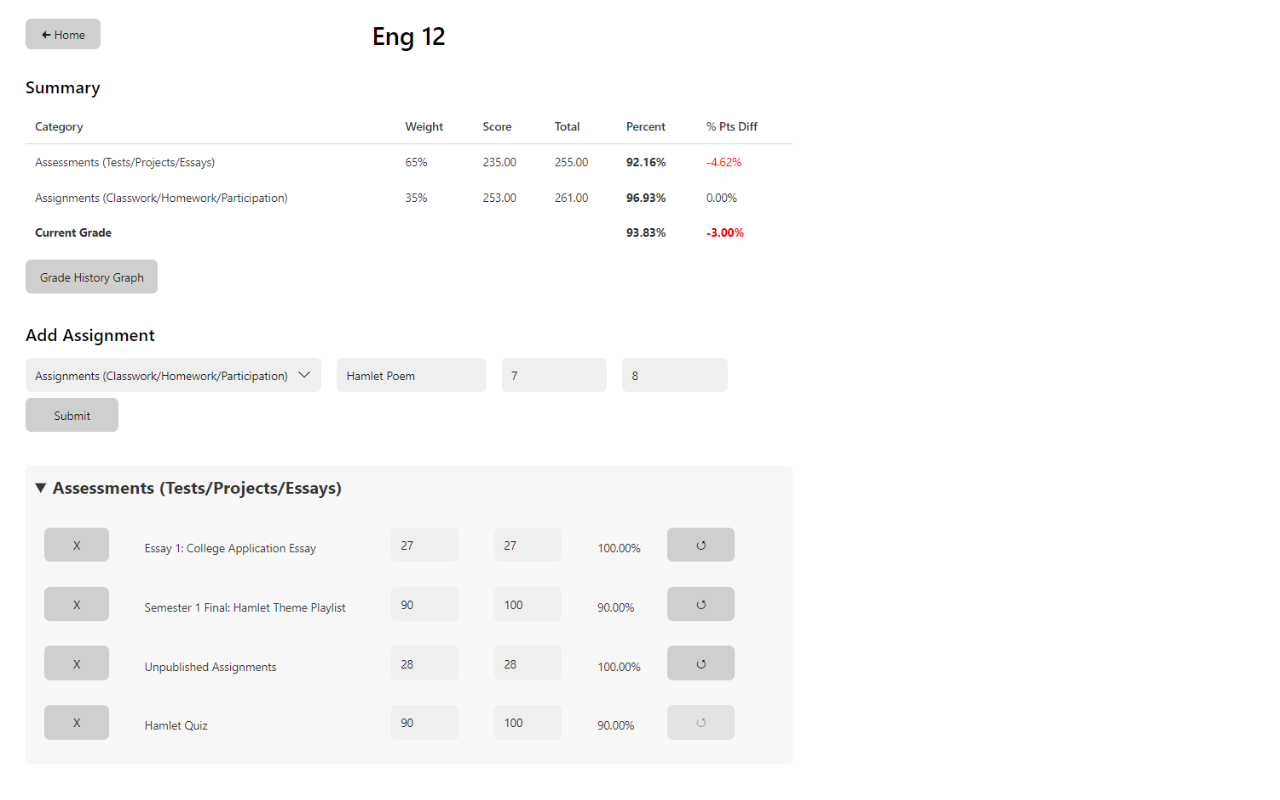
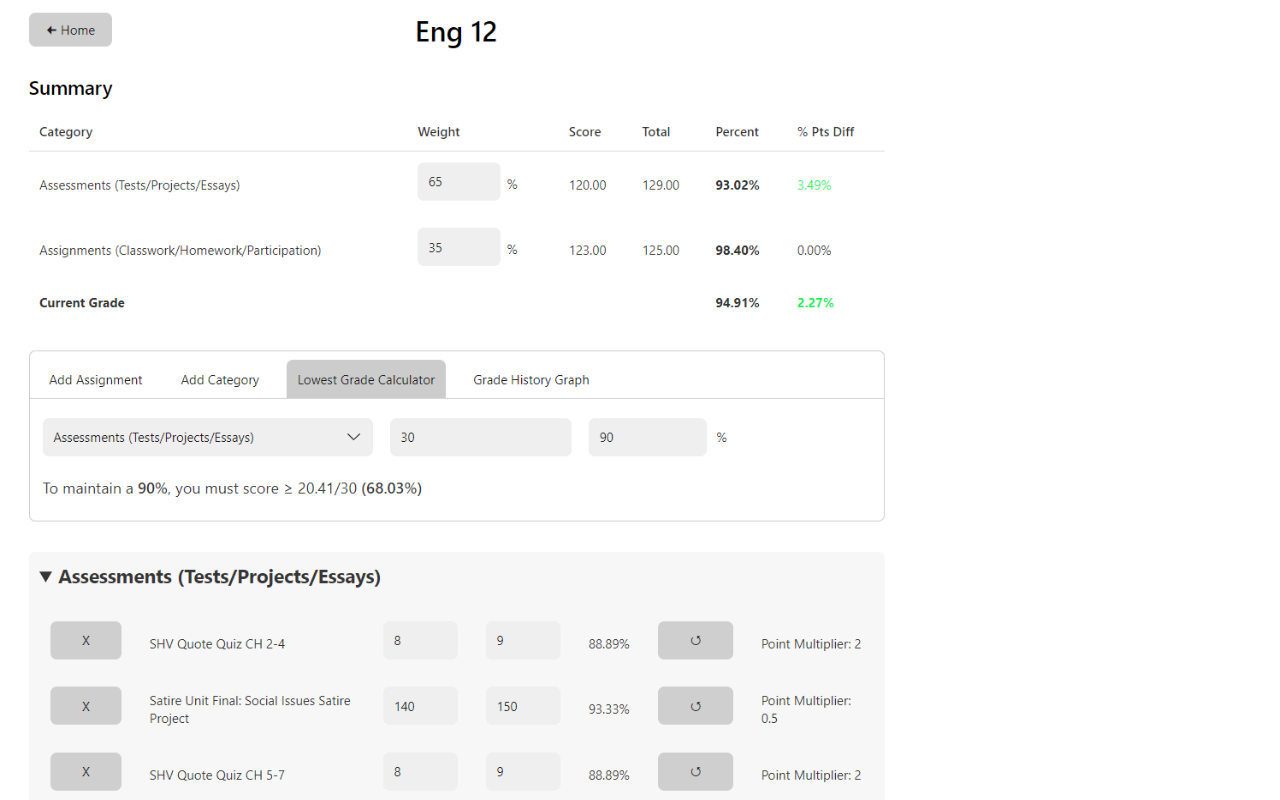
update readme + imgs for 2.4

diff --git a/extension/pages/main.js b/extension/pages/main.js
@@ -3,8 +3,6 @@ things to do:
 show unread IC notifications for grade updates on home page
     (https://github.com/codingmarket07/Notification-Dropdown-Nov19)
     could also implement browser notifications by fetching every 5 min
-add categories for weight-based grades
-change category weight
 
 about/help page
 'settings' page for non-fusd?

diff --git a/README.md b/README.md
@@ -7,21 +7,24 @@ Worry no longer! This handy extension aims to address 2 crucial oversights of In
 
 Features:
 - Assignments for each class are sorted neatly by grading category with your current grade and category grades at the top of the page
-- You can simulate your grade by changing your score for past assignments, adding new assignments, or deleting past ones
+- Simulate your grade by changing your score for past assignments, adding new assignments, or deleting past ones
+- Create new categories and change the weightage of existing ones
 - Graph of how your grade has been changing throughout the semester
 - Calculate the lowest grade you can get on an assignment to maintain a certain grade
+- Light and Dark Mode
 
 Usage:
-1. Make sure you are signed into [FUSD Infinite Campus](https://fremontunifiedca.infinitecampus.org/campus/portal/students/fremont.jsp)
+1. Make sure you are signed in to [FUSD Infinite Campus](https://fremontunifiedca.infinitecampus.org/campus/portal/students/fremont.jsp)
 2. After installing, click on the green Infinite Campus icon on the toolbar to open the home page
 3. Here, you can see a list of your current classes and grades
    - You can change the semester you are viewing by clicking the radio buttons below the title
 4. If you click on the "Open Class" button next to each class entry, you will be brought to the class page
 5. Here, you can see all your assignments and grades for the class. You can:
-   - Add new assignments
+   - Create new assignments and categories
    - Update assignment scores using the input boxes next to each assignment
    - Delete assignments using the "x" button
    - Reset assignments to their original score using the "⭯" button
+   - Update category weightages using the input boxes in the summary table
 6. The "Lowest Grade Calculator" tab allows you to calculate the lowest grade you can get on an assignment in order to maintain a certain grade
 7. The "Grade History Graph" tab shows a graph of how your grade has changed during the semester
 8. Enjoy!
@@ -36,4 +39,5 @@ For any bugs or feature requests, do not hesitate to email appdev.micro@gmail.co
 ![](imgs/home_page.png)
 ![](imgs/class_page.png)
 ![](imgs/class_expanded.png)
-![](imgs/graph_page.png)
+![](imgs/grade_graph.png)
+![](imgs/dark_mode.png)
